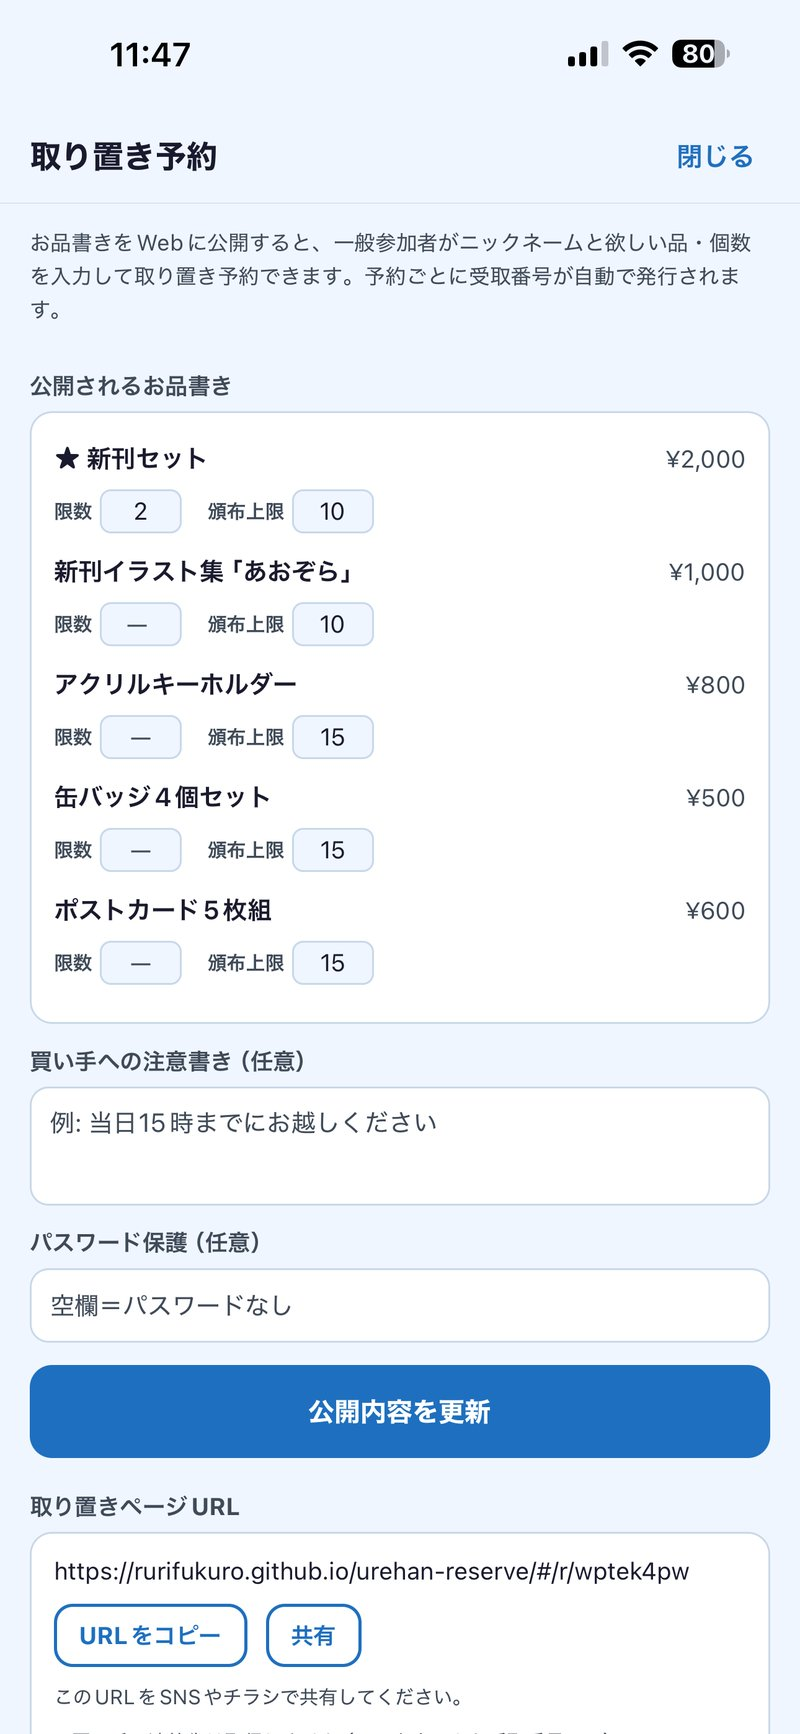
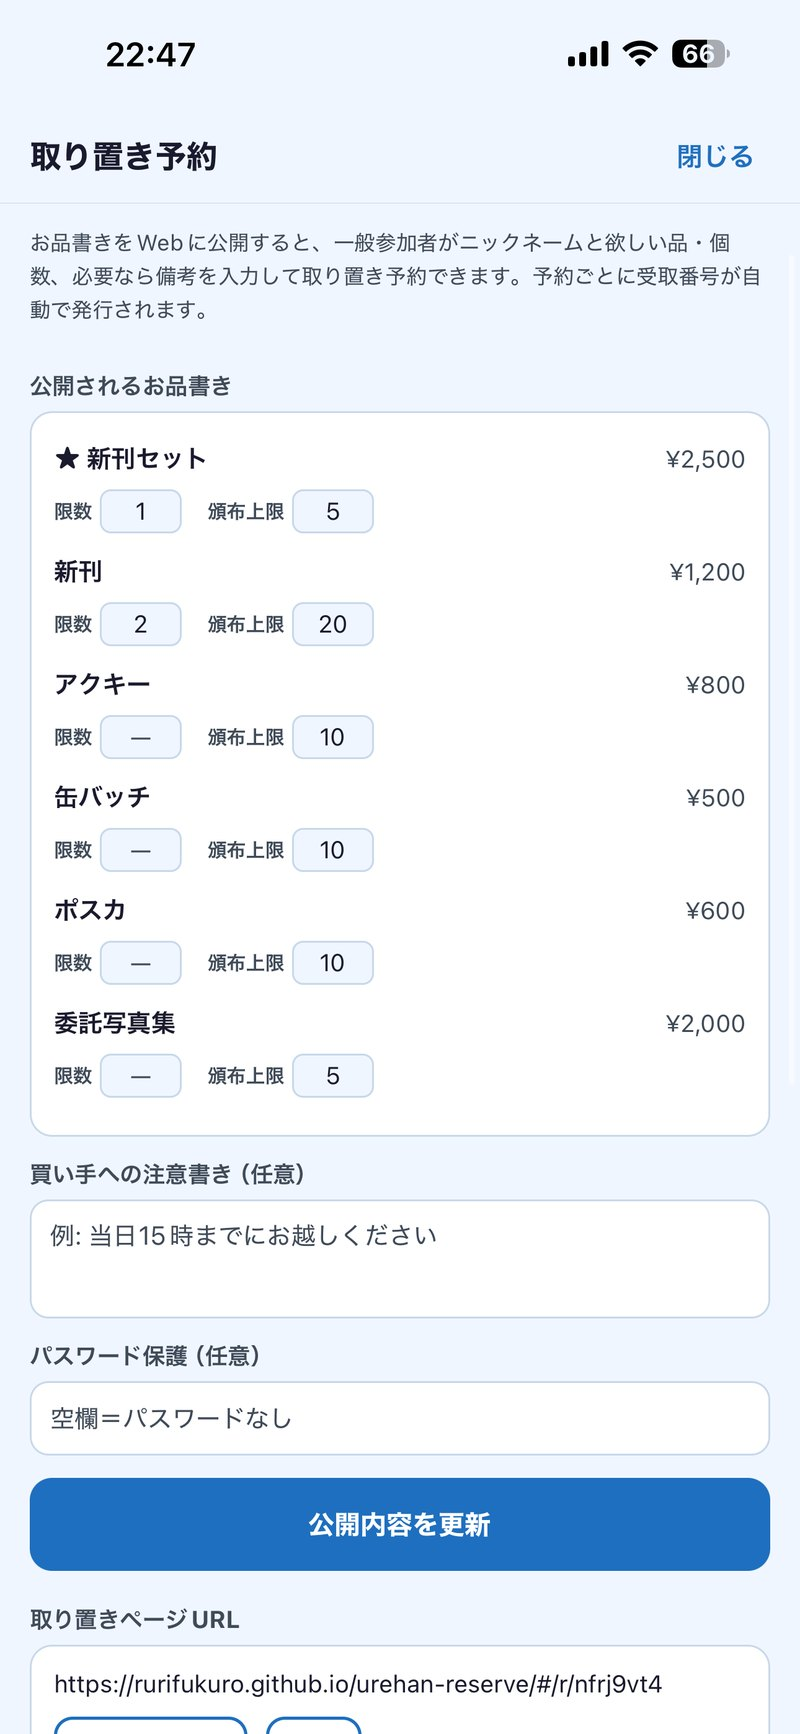
ポータル: レジさぽっ！LPのスクショを2026-09-01撮影版へ差し替え／実装に無い表現とペイウォール残骸を除去／比較記事に取り置きの公開設定を追記
とれはんっ！側の是正（82689ed）と同じ作法をレジさぽっ！へ横展開した。
Google Play は未公開のため「公開中」等の状態表記は一切変えていない（修正のみ）。

## スクショ差し替え（10枚・1290x2796 → 800x1734）

new01→shot1 レジ画面（一覧モード）／new03→shot2 会計モーダル／new05→shot3 セット編集＋AI自動入力
new02→shot4 レジ画面（画像モード）／new06→shot5 取り置きの公開設定／new09→shot6 取り置き管理
new07→shot7 買い手向けWeb予約／new08→shot8 取り置き完了・受取番号／new04→shot9 商品画面
new10→shot12 設定画面

出力寸法は既存と同一（800x1734）に固定＝LPのレイアウトを1pxも動かさない。
生成は入力寸法・差し替え先の実在・件数をassertで守るスクリプトで行った（W26）。

## 🔴 shot10（売上）/ shot11（確定申告）をLPから外した

旧画像は2026-07-10撮影で、Rev135〔TAX-FREE〕(2026-08-25) で撤去した解放ゲート
（「イベント全日合計を表示 🔒」「全ての開催日を解放すると表示されます（あと1日）」）が写っていた。
＝**今は存在しない制限を見せる画像**なので取り下げた。文章だけ残してある。
2026-09-01 の新スクショ10枚には売上・確定申告の画面が無く、リポジトリ内の代替
（release/play_assets/screenshots/captioned/05_sales.png・06_tax.png）も同じ🔒が焼き込まれた
Rev135以前の素材だったため採用できない。撮り直しが入ったら .shots two を戻す（理由はHTMLコメントに恒久化）。

## 実装に無い表現の除去

「売上・利益をその場で自動集計＆グラフ表示」→「…支払方法別・品目別にその場で自動集計」。
src/ にグラフ描画の実装は0件（依存も react-native-svg のみ）＝虚偽表示だった。機能数11は維持。

## 本文の追随

- 取り置き節: 品目ごとの限数・頒布に回す上限・受付の自動〆切・パスワード保護を明記
- Web予約節: 買い手の連絡先を取得しない旨を追記
- AI読取節・オフライン節: 新スクショの画面に合わせて改訂
- 確定申告節: 確定申告サマリーが無料である旨を明記（Rev135以降の仕様）
- 全 alt を新しい画面の内容へ更新

## デザインルール是正

- .btn / .sister a.link に min-height:48px（★UI-REACH）＝check:tap-target が urehan/index.html で6件→0件
- .btn-x を主CTA（App Store）より一段弱く（DS28-1・とれはんっ！側と同一）
- footer の色 #a1907e は最も明るい地(#3a2a1e)で 4.45:1 と補助テキストの下限4.5:1を割っていた → #b5a390

## 比較記事（doujin-pos-app-comparison.md）

§2 取り置き節へ、限数・上限の個別指定、パスワード保護、連絡先を取得しない点を追記。
[…]

diff --git a/public/urehan/index.html b/public/urehan/index.html
@@ -102,10 +102,17 @@
     display:flex;align-items:center;justify-content:center;gap:12px;
     text-decoration:none;font-weight:700;font-size:18px;
     padding:18px 22px;border-radius:16px;transition:transform .12s ease,opacity .12s ease;
+    min-height:48px;  /* ★UI-REACH: padding で偶然超えるのでなく、床を宣言で保証する */
   }
   .btn:active{transform:scale(.98)}
-  .btn-x{background:rgba(255,255,255,.10);color:#fff;border:1px solid rgba(255,255,255,.25)}
   .btn-store{background:#fff;color:var(--bg1)}
+  /* 副次導線＝主CTA（App Store）より一段弱くする（DS28-1 / DS26・とれはんっ！側と同一の作法） */
+  .btn-x{
+    background:rgba(255,255,255,.07);color:#fff;border:1px solid rgba(255,255,255,.20);
+    font-size:15px;padding:13px 18px;border-radius:14px;
+  }
+  .btn-x .ic{font-size:18px}
+  .btn-x small{font-size:11.5px;color:#c0ae9b}  /* DS24: 最も明るい地(#3a2a1e)でも 6.39:1 */
   .btn .ic{font-size:22px;line-height:1}
   .btn small{display:block;font-size:12px;font-weight:500;color:rgba(255,255,255,.8)}
   .btn-store small{color:#6b5a48}
@@ -174,6 +181,7 @@
     display:inline-flex;align-items:center;gap:8px;text-decoration:none;
     font-weight:700;font-size:15px;color:#fff;background:rgba(255,255,255,.1);
     border:1px solid rgba(255,255,255,.25);padding:12px 18px;border-radius:14px;
+    min-height:48px;  /* ★UI-REACH: 床を宣言で保証する */
   }
 
   .tester{
@@ -256,7 +264,8 @@
   .events b{color:var(--coral)}
 
   footer{
-    text-align:center;font-size:12px;color:#a1907e;margin-top:48px;
+    /* DS24: #a1907e は最も明るい地(#3a2a1e)で 4.45:1 と補助テキストの下限(4.5:1)を割っていた */
+    text-align:center;font-size:12px;color:#b5a390;margin-top:48px;
     border-top:1px solid rgba(255,255,255,.1);padding-top:24px;
   }
   footer a{color:#d9c3ac}
@@ -319,16 +328,16 @@
   <div class="hero-feat">
     <div class="feat">
       <h3>📅 取り置き予約の"受け渡しモレ"、ゼロに</h3>
-      <p>取り置き予約の公開設定から受け渡し管理まで、アプリひとつで完結。「誰に・何を・いつ」が一覧で一目瞭然。受取番号で管理するので、モレもダブりも防ぎます。</p>
+      <p>取り置き予約の公開設定から受け渡し管理まで、アプリひとつで完結。品目ごとに「お一人様1点まで」の限数や頒布上限を決められ、受付の自動〆切やパスワード保護もかけられます。「誰に・何を・いつ」は一覧で一目瞭然。受取番号で管理するので、モレもダブりも防ぎます。</p>
       <div class="shots two">
-        <img src="img/shot5.jpg" alt="取り置き予約の公開設定画面" loading="lazy">
-        <img src="img/shot6.jpg" alt="取り置き予約の管理・一覧画面" loading="lazy">
+        <img src="img/shot5.jpg" alt="取り置き予約の公開設定画面。品目ごとの限数とパスワード保護" loading="lazy">
+        <img src="img/shot6.jpg" alt="取り置き予約の管理・一覧画面。受付の自動〆切と受取番号" loading="lazy">
       </div>
     </div>
     <hr class="divider">
     <div class="feat">
       <h3>🌐 買い手はブラウザから予約。アプリ不要、URLだけ</h3>
-      <p>生成されたURLを共有するだけで、買い手はスマホのブラウザから取り置き予約ができます。アプリのインストールは不要。お品書きと個数を選ぶだけで受取番号が即発行されます。</p>
+      <p>生成されたURLを共有するだけで、買い手はスマホのブラウザから取り置き予約ができます。アプリのインストールは不要。お品書きと個数を選ぶだけで受取番号が即発行されます。買い手の連絡先は取得しないので、相手にとっても気軽です。</p>
       <div class="shots two">
         <img src="img/shot7.jpg" alt="Web取り置き予約ページ（買い手向け）" loading="lazy">
         <img src="img/shot8.jpg" alt="取り置き完了・受取番号の画面" loading="lazy">
@@ -345,17 +354,17 @@
       <h3>🧮 もう暗算しない。ワンタップで、"秒"会計</h3>
       <p>頒布物を選んで数量を押すだけ。合計もおつりも自動で、もう暗算に迷いません。行列ができる頒布時間でもサッとお会計。現金・キャッシュレスどちらも記録できます。</p>
       <div class="shots two">
-        <img src="img/shot1.jpg" alt="レジ画面" loading="lazy">
+        <img src="img/shot1.jpg" alt="レジ画面（一覧モード）" loading="lazy">
         <img src="img/shot2.jpg" alt="会計・おつり計算の画面" loading="lazy">
       </div>
     </div>
 
     <div class="feat">
       <h3>🤖 お品書きを撮るだけ。手入力ゼロで、すぐ頒布開始</h3>
-      <p>お品書きを撮影するだけで、名前も価格もAIが自動で読み取り。手入力の手間なく、ワンタップで商品リストが完成します。セット組み合わせも自由に作成できます。</p>
+      <p>お品書きを撮影するだけで、名前も価格もAIが自動で読み取り。手入力の手間なく、ワンタップで商品リストが完成します。セット組み合わせも自由に作れて、レジ画面はお品書き画像つきの表示にも切り替えられます。</p>
       <div class="shots two">
-        <img src="img/shot3.jpg" alt="商品の追加・AI自動入力の画面" loading="lazy">
-        <img src="img/shot4.jpg" alt="商品（頒布物）一覧の画面" loading="lazy">
+        <img src="img/shot3.jpg" alt="セット編集画面。お品書き画像からのAI自動入力" loading="lazy">
+        <img src="img/shot4.jpg" alt="お品書き画像つきで並ぶレジ画面（画像モード）" loading="lazy">
       </div>
     </div>
 
@@ -369,16 +378,18 @@
 
     <div class="feat">
       <h3>📊 確定申告、もう怖くない。売上も経費もその場で集計</h3>
-      <p>売上と利益をその場で自動集計し、グラフでひと目で把握。参加費や材料費などの経費も記録でき、確定申告の準備がぐっとラクになります。売り子共有で複数端末の売上を同期することも。</p>
-      <div class="shots two">
-        <img src="img/shot10.jpg" alt="売上集計の画面" loading="lazy">
-        <img src="img/shot11.jpg" alt="確定申告・経費記録の画面" loading="lazy">
-      </div>
+      <p>売上と利益をその場で自動集計。支払方法別・品目別の内訳まで出るので、参加費や材料費などの経費を足せば確定申告の準備がぐっとラクになります。確定申告サマリーは無料でお使いいただけます。売り子共有で複数端末の売上を同期することも。</p>
+      <!-- 🔴 画像を外している理由（2026-09-02）:
+           旧 shot10（売上）/ shot11（確定申告）は 2026-07-10 撮影で、アプリ Rev135〔TAX-FREE〕(2026-08-25) で
+           撤去した解放ゲート（「イベント全日合計を表示 🔒」「全ての開催日を解放すると表示されます（あと1日）」）が
+           写っていた＝**今は無い制限を見せる画像**なので取り下げた。
+           2026-09-01 撮影の新スクショ10枚には売上・確定申告の画面が含まれていない。
+           撮り直しが手に入ったら shot10 / shot11 を差し替えて、この節に .shots two を戻す。 -->
     </div>
 
     <div class="feat">
       <h3>⚙ 電波なしでもサクサク。オフラインで安心動作</h3>
-      <p>レジの挙動を好みに合わせてカスタマイズ。オフラインでもサクサク動くので、電波が弱い会場でも安心です。</p>
+      <p>レジの挙動やAI読み取りの枚数など、設定は好みに合わせて調整できます。オフラインでもサクサク動くので、電波が弱い会場でも安心です。</p>
       <div class="shots one">
         <img src="img/shot12.jpg" alt="設定画面" loading="lazy">
       </div>
@@ -394,7 +405,7 @@
       <li><span class="dot" style="background:#3b82f6">✓</span>セット割・まとめ買い会計もワンタップ</li>
       <li><span class="dot" style="background:#f59e0b">✓</span>取り置き予約の受付・管理をアプリで一元化</li>
       <li><span class="dot" style="background:#ec4899">✓</span>Web予約ページで、どこからでも取り置き受付</li>
-      <li><span class="dot" style="background:#22c55e">✓</span>売上・利益をその場で自動集計＆グラフ表示</li>
+      <li><span class="dot" style="background:#22c55e">✓</span>売上・利益を支払方法別・品目別にその場で自動集計</li>
       <li><span class="dot" style="background:#14b8a6">✓</span>経費記録で確定申告がぐっとラクに</li>
       <li><span class="dot" style="background:#ef4444">✓</span>現金もキャッシュレスも支払い記録</li>
       <li><span class="dot" style="background:#a855f7">✓</span>売り子共有で複数端末の売上を同期</li>
